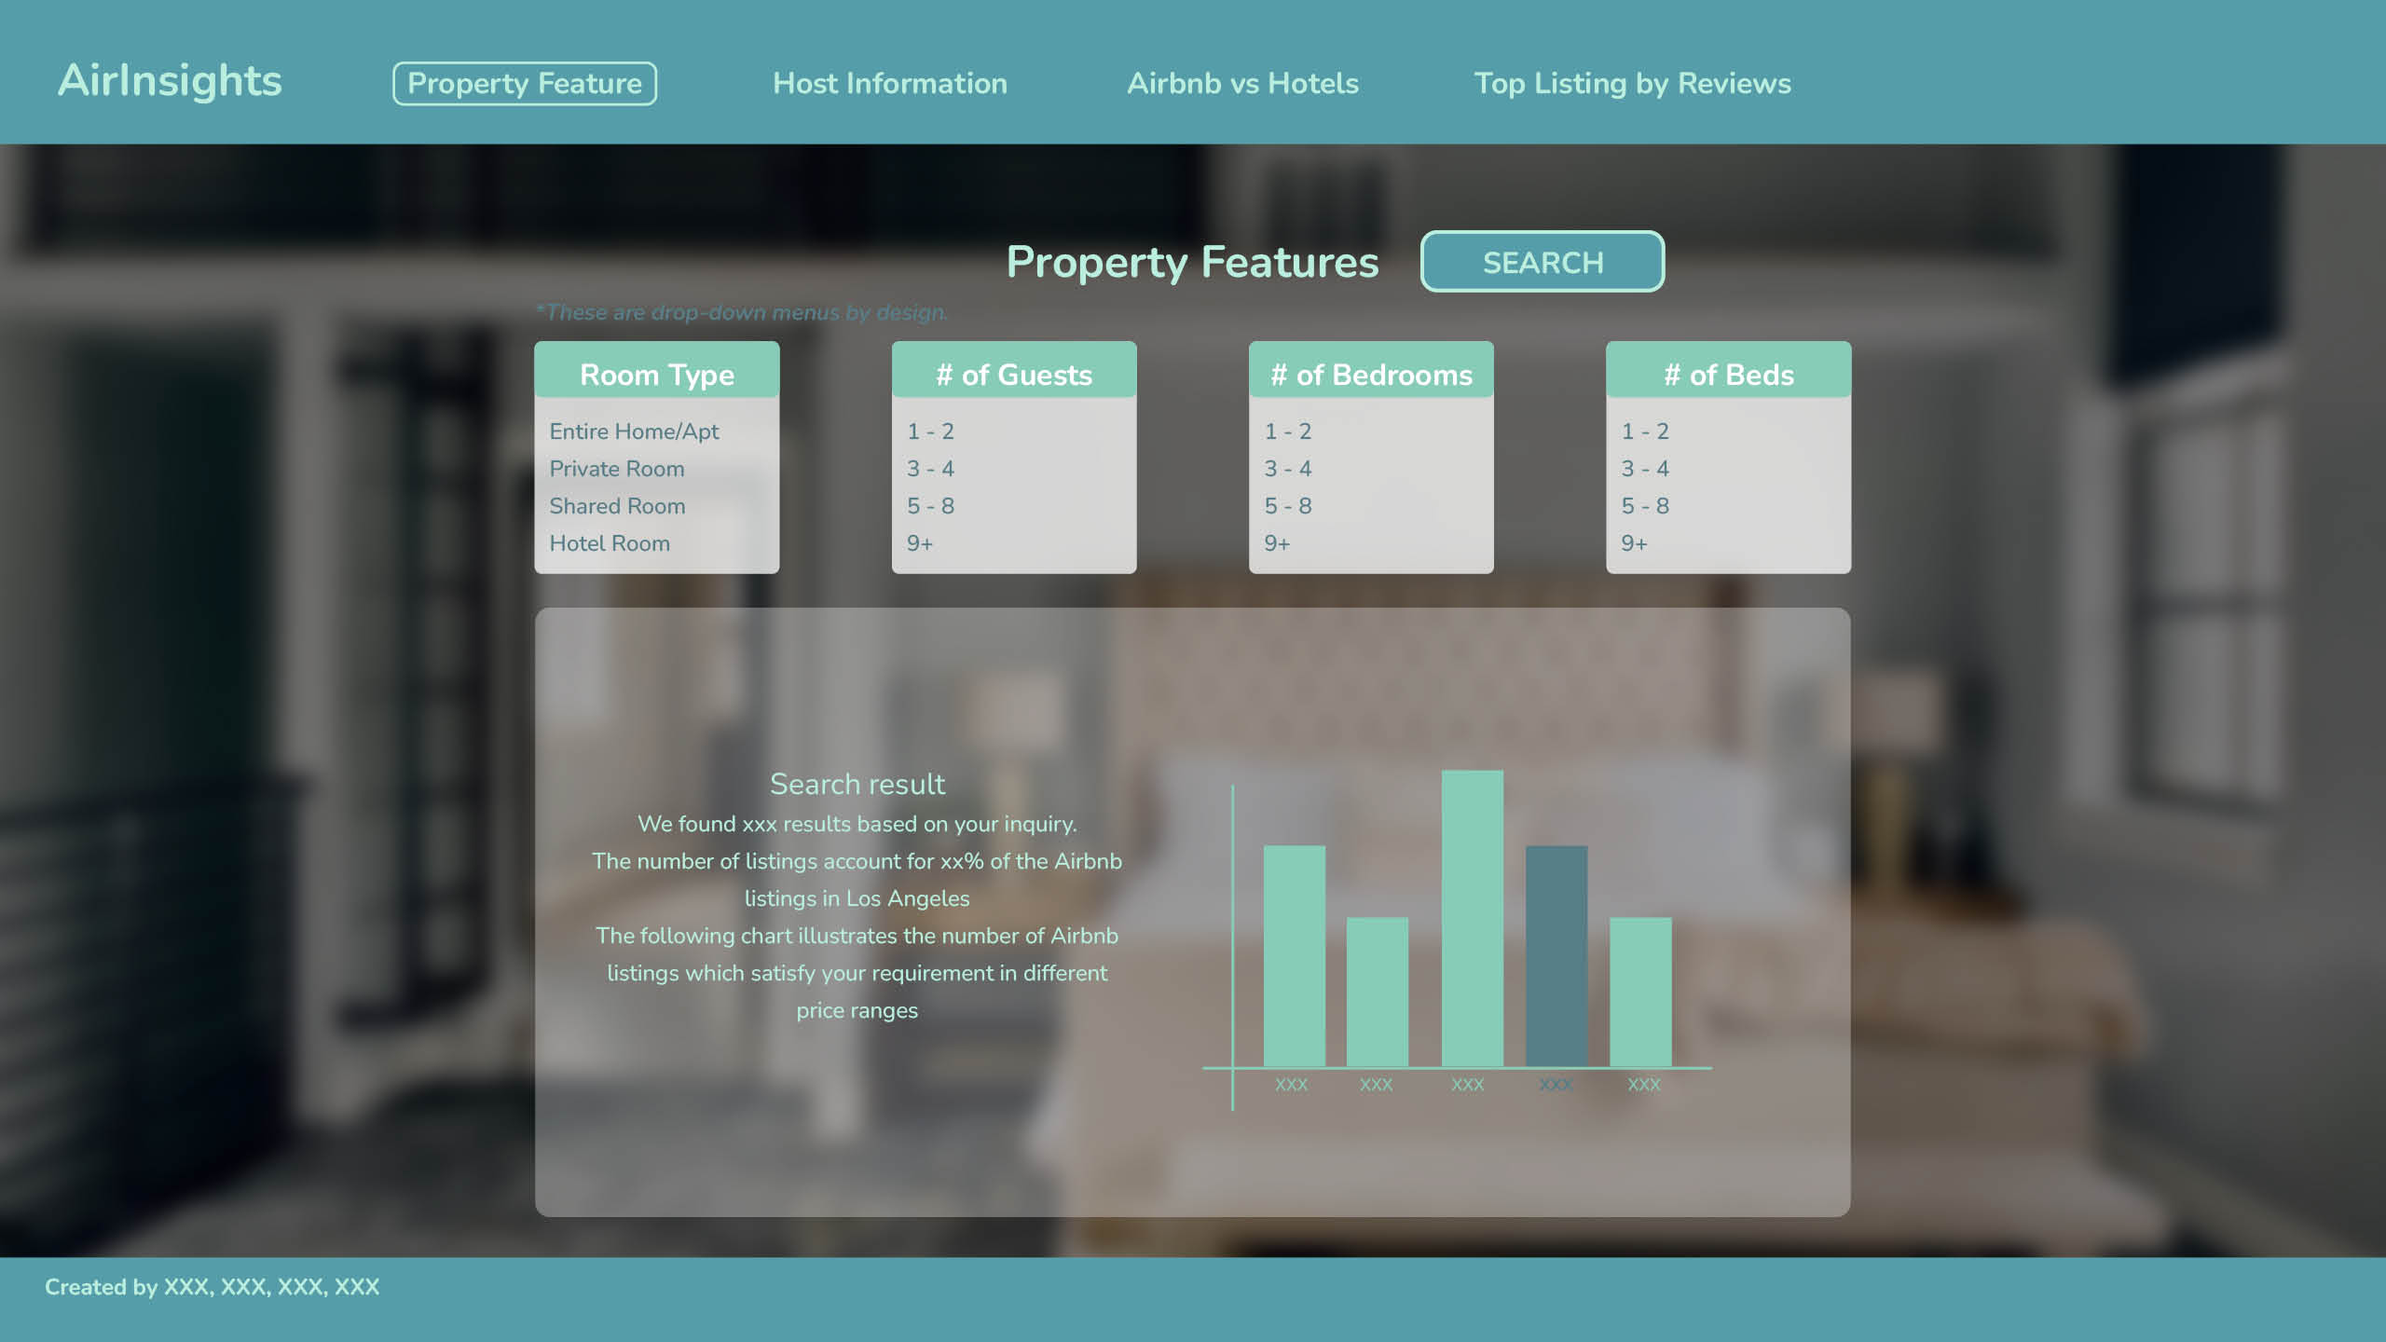
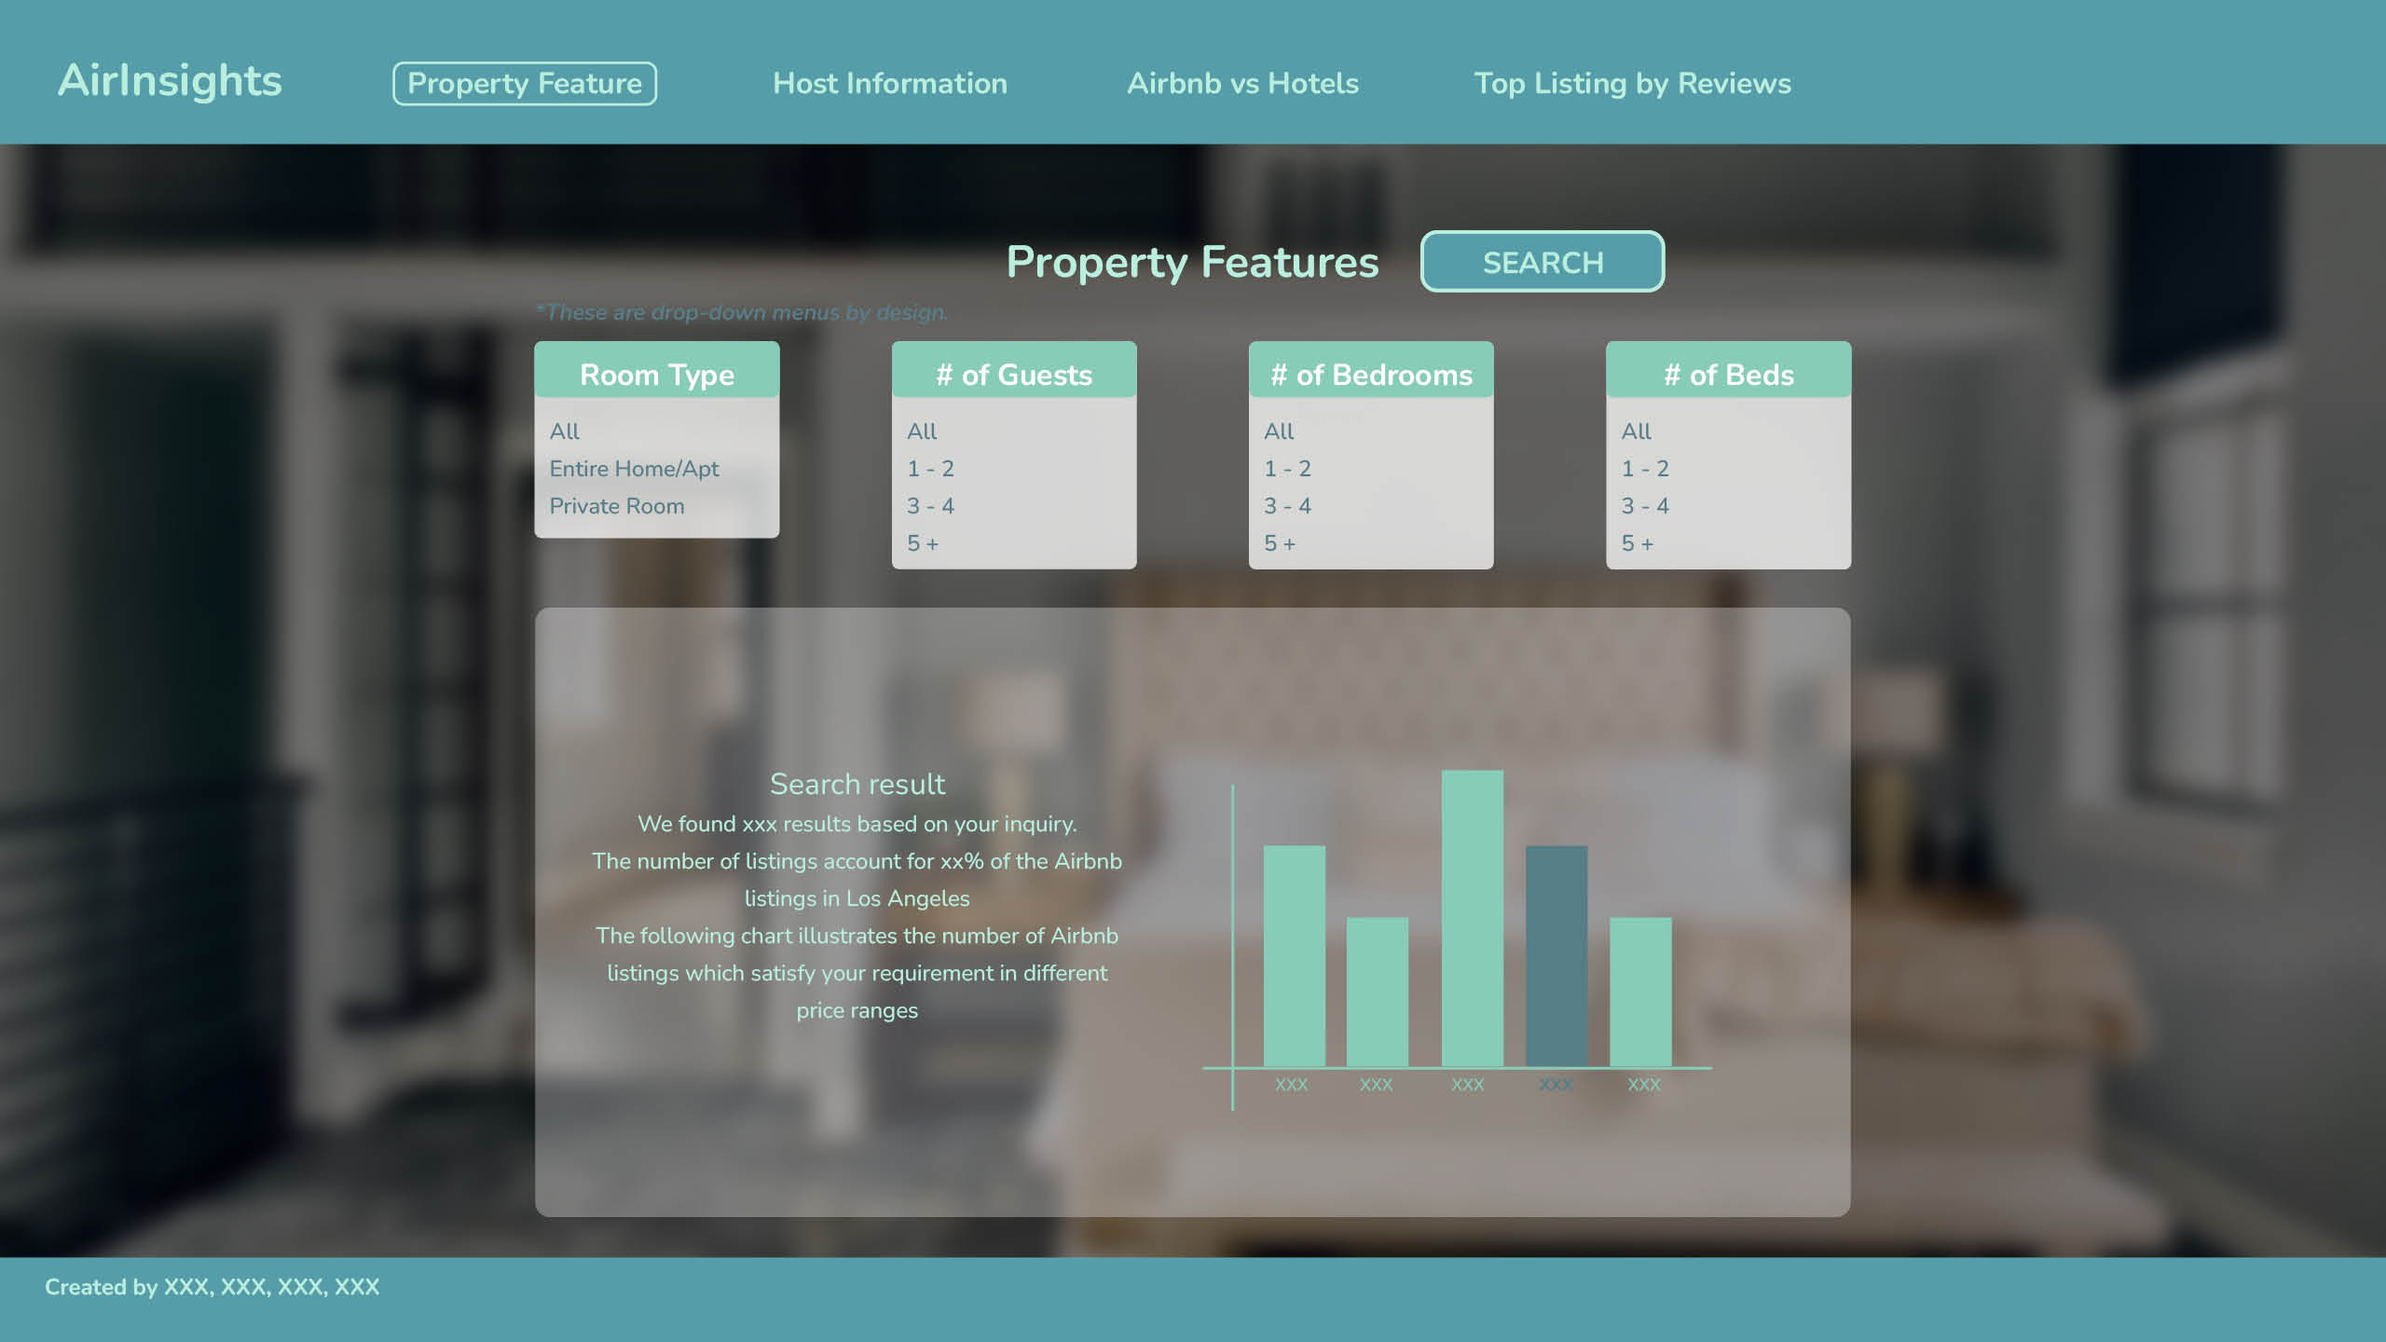
query optimization and demo revision

diff --git a/server/routes.js b/server/routes.js
@@ -13,57 +13,48 @@ connection.connect((err) => err && console.log(err));
 
 // maps mapping inputs to query conditions
 const roomTypeDict = {
-  "All": [0, 3],
+  "All": [0, 1],
   "Entire Home/Apt": [0, 0],
-  "Private Room": [1, 1],
-  "Hotel Roon": [2, 2],
-  "Shared Room": [3, 3]
+  "Private Room": [1, 1]
 }
 
 const accommodateRange = {
   "All": [0, 16],
   "1-2": [1, 2],
   "3-4": [3, 4],
-  "5-8": [5, 8],
-  "9+": [9, 16]
+  "5": [5, 16]
 }
 
 const bedroomsRange = {
   "All": [1, 25],
   "1-2": [1, 2],
   "3-4": [3, 4],
-  "5-8": [5, 8],
-  "9+": [9, 25]
+  "5": [5, 25]
 }
 
 const bedsRange = {
-  "All": [1, 50],
+  "All": [1, 25],
   "1-2": [1, 2],
   "3-4": [3, 4],
-  "5-8": [5, 8],
-  "9+": [9, 50]
+  "5": [5, 25]
 }
 
 const responseTimeRange = {
   "All": [0, Number.MAX_SAFE_INTEGER],
   "<1hr": [0, 1],
-  "<6hr": [0, 6],
-  "<24hr": [0, 24],
-  ">1D": [24, Number.MAX_SAFE_INTEGER]
+  "1hr": [1, Number.MAX_SAFE_INTEGER]
 }
 
 const responseRateRange = {
   "All": [0, 1],
-  "<0.5": [0, 0.5],
-  "0.5-0.8": [0.5, 0.8],
-  "0.8-1": [0.8, 1]
+  "<0.9": [0, 0.9],
+  "0.9": [0.9, 1]
 }
 
 const acceptanceRateRange = {
   "All": [0, 1],
-  "<0.5": [0, 0.5],
-  "0.5-0.8": [0.5, 0.8],
-  "0.8-1": [0.8, 1]
+  "<0.9": [0, 0.9],
+  "0.9": [0.9, 1]
 }
 
 const superhostRange = {
@@ -74,10 +65,8 @@ const superhostRange = {
 
 const totalListingRange = {
   "All": [1, Number.MAX_SAFE_INTEGER],
-  "1": [1, 1],
-  "2-5": [2, 5],
-  "6-10": [6, 10],
-  "11": [11, Number.MAX_SAFE_INTEGER]
+  "<5": [1, 5],
+  "5": [5, Number.MAX_SAFE_INTEGER]
 }
 
 const reviewTypeMap = {
@@ -105,26 +94,23 @@ const search_features = async function(req, res){
 
   connection.query(`
   SELECT
-      SUM(IF(b.price<50,1,0)) as 'UNDER 50',
-      SUM(IF(b.price BETWEEN 50 AND 99,1,0)) as '50-99',
-      SUM(IF(b.price BETWEEN 100 AND 149,1,0)) as '100-149',
-      SUM(IF(b.price BETWEEN 150 AND 199,1,0)) as '150-199',
-      SUM(IF(b.price BETWEEN 200 AND 249,1,0)) as '200-249',
-      SUM(IF(b.price BETWEEN 250 AND 299,1,0)) as '250-299',
-      SUM(IF(b.price BETWEEN 300 AND 349,1,0)) as '300-349',
-      SUM(IF(b.price BETWEEN 350 AND 399,1,0)) as '350-399',
-      SUM(IF(b.price>=400,1,0)) as 'OVER 400',
-      SUM(IF(b.price IS NULL, 1, 0)) as 'Not Filled In (NULL)'
-      FROM
-          (SELECT g.ind, g.room_type, g.accommodates, g.bedrooms, g.beds, g.general_price AS price
-           FROM General_listings g
-           WHERE g.ind NOT IN
-           (SELECT a.ind
-           FROM
-             (SELECT ind, AVG(price)
-              FROM LongTermRental
-              WHERE date< CURDATE()
-              GROUP BY ind) a)) b
+  SUM(IF(b.price<50,1,0)) as 'UNDER 50',
+  SUM(IF(b.price BETWEEN 50 AND 99,1,0)) as '50-99',
+  SUM(IF(b.price BETWEEN 100 AND 149,1,0)) as '100-149',
+  SUM(IF(b.price BETWEEN 150 AND 199,1,0)) as '150-199',
+  SUM(IF(b.price BETWEEN 200 AND 249,1,0)) as '200-249',
+  SUM(IF(b.price>=250,1,0)) as 'OVER 250',
+  SUM(IF(b.price IS NULL, 1, 0)) as 'Not Filled In (NULL)'
+  FROM
+      (SELECT g.ind, g.room_type, g.accommodates, g.bedrooms, g.beds, g.general_price AS price
+       FROM General_listings g
+       WHERE g.ind NOT IN
+       (SELECT a.ind
+       FROM
+         (SELECT l.ind, AVG(price)
+          FROM General_listings g JOIN LongTermRental l ON g.ind = l.ind
+          WHERE date< CURDATE()
+          GROUP BY l.ind) a)) b
       WHERE b.room_type>='${roomType[0]}' && b.room_type<='${roomType[1]}' && 
             b.accommodates >= '${accommodatesLow}' && b.accommodates <= '${accommodatesHigh}' &&
             b.bedrooms >='${bedroomsLow}' && b.bedrooms <= '${bedroomsHigh}' &&
@@ -154,15 +140,15 @@ const search_features_count = async function(req, res){
   connection.query(`
   SELECT COUNT(b.ind) AS COUNT
   FROM
-        (SELECT g.ind, g.room_type, g.accommodates, g.bedrooms, g.beds, g.general_price
-        FROM General_listings g
-        WHERE g.ind NOT IN
-        (SELECT a.ind
-        FROM
-          (SELECT ind, AVG(price)
-            FROM LongTermRental
-            WHERE date< CURDATE()
-            GROUP BY ind) a)) b
+      (SELECT g.ind, g.room_type, g.accommodates, g.bedrooms, g.beds
+       FROM General_listings g
+       WHERE g.ind NOT IN
+       (SELECT a.ind
+       FROM
+         (SELECT l.ind
+          FROM LongTermRental l
+          WHERE date< CURDATE()
+          ) a)) b
   WHERE b.room_type>='${roomType[0]}' && b.room_type<='${roomType[1]}' && 
         b.accommodates >= '${accommodatesLow}' && b.accommodates <= '${accommodatesHigh}' &&
         b.bedrooms >='${bedroomsLow}' && b.bedrooms <= '${bedroomsHigh}' &&
@@ -192,17 +178,17 @@ const search_features_percentage = async function(req, res){
 
   connection.query(`
   SELECT 1.0*
-       (SELECT COUNT(b.ind) 
+       (SELECT COUNT(b.ind)
         FROM
-      (SELECT g.ind, g.general_price, g.room_type, g.accommodates, g.bedrooms, g.beds
+      (SELECT g.ind, g.room_type, g.accommodates, g.bedrooms, g.beds
        FROM General_listings g
        WHERE g.ind NOT IN
        (SELECT a.ind
        FROM
-         (SELECT ind, AVG(price)
-          FROM LongTermRental
+         (SELECT l.ind
+          FROM LongTermRental l
           WHERE date< CURDATE()
-          GROUP BY ind) a)) b
+          ) a)) b
         WHERE b.room_type>='${roomType[0]}' && b.room_type<='${roomType[1]}' && 
               b.accommodates >= '${accommodatesLow}' && b.accommodates <= '${accommodatesHigh}' &&
               b.bedrooms >='${bedroomsLow}' && b.bedrooms <= '${bedroomsHigh}' &&
@@ -233,27 +219,24 @@ const search_host_info = async function(req, res){
 
   connection.query(`
   SELECT
-  SUM(IF(b.price<50,1,0)) as 'UNDER 50',
-  SUM(IF(b.price BETWEEN 50 AND 99,1,0)) as '50-99',
-  SUM(IF(b.price BETWEEN 100 AND 149,1,0)) as '100-149',
-  SUM(IF(b.price BETWEEN 150 AND 199,1,0)) as '150-199',
-  SUM(IF(b.price BETWEEN 200 AND 249,1,0)) as '200-249',
-  SUM(IF(b.price BETWEEN 250 AND 299,1,0)) as '250-299',
-  SUM(IF(b.price BETWEEN 300 AND 349,1,0)) as '300-349',
-  SUM(IF(b.price BETWEEN 350 AND 399,1,0)) as '350-399',
-  SUM(IF(b.price>=400,1,0)) as 'OVER 400',
-  SUM(IF(b.price IS NULL, 1, 0)) as 'Not Filled In (NULL)'
-  FROM
-      (SELECT g.ind, g.host_id, g.general_price AS price
-       FROM General_listings g
-       WHERE g.ind NOT IN
-       (SELECT a.ind
-       FROM
-         (SELECT ind, AVG(price)
-          FROM LongTermRental
-          WHERE date< CURDATE()
-          GROUP BY ind) a)) b
-      JOIN Host_information h ON h.host_id=b.host_id
+      SUM(IF(b.price<50,1,0)) as 'UNDER 50',
+      SUM(IF(b.price BETWEEN 50 AND 99,1,0)) as '50-99',
+      SUM(IF(b.price BETWEEN 100 AND 149,1,0)) as '100-149',
+      SUM(IF(b.price BETWEEN 150 AND 199,1,0)) as '150-199',
+      SUM(IF(b.price BETWEEN 200 AND 249,1,0)) as '200-249',
+      SUM(IF(b.price>=250,1,0)) as 'OVER 250',
+      SUM(IF(b.price IS NULL, 1, 0)) as 'Not Filled In (NULL)'
+      FROM
+          (SELECT g.ind, g.host_id, g.general_price AS price
+           FROM General_listings g
+           WHERE g.ind NOT IN
+           (SELECT a.ind
+           FROM
+             (SELECT l.ind, AVG(price)
+              FROM General_listings g JOIN LongTermRental l ON g.ind = l.ind
+              WHERE date< CURDATE()
+              GROUP BY l.ind) a)) b
+          JOIN Host_information h ON h.host_id=b.host_id
   WHERE h.host_response_time>='${responseTime[0]}' && h.host_response_time<='${responseTime[1]}' && 
         h.host_response_rate IS NOT NULL && h.host_response_rate>='${responseRate[0]}' && h.host_response_rate<='${responseRate[1]}' &&
         h.host_acceptance_rate IS NOT NULL && h.host_acceptance_rate>='${acceptanceRate[0]}' && h.host_acceptance_rate<='${acceptanceRate[1]}' && 
@@ -285,16 +268,16 @@ const search_host_info_count = async function(req, res){
   connection.query(`
   SELECT COUNT(b.ind) AS COUNT
   FROM
-          (SELECT g.ind, g.host_id
-           FROM General_listings g
-           WHERE g.ind NOT IN
-           (SELECT a.ind
-           FROM
-             (SELECT ind, AVG(price)
-              FROM LongTermRental
-              WHERE date< CURDATE()
-              GROUP BY ind) a)) b
-          JOIN Host_information h ON h.host_id=b.host_id
+            (SELECT g.ind, g.host_id
+             FROM General_listings g
+             WHERE g.ind NOT IN
+             (SELECT a.ind
+             FROM
+               (SELECT l.ind
+                FROM LongTermRental l
+                WHERE date< CURDATE()
+                ) a)) b
+            JOIN Host_information h ON h.host_id=b.host_id
   WHERE h.host_response_time>='${responseTime[0]}' && h.host_response_time<='${responseTime[1]}' && 
         h.host_response_rate IS NOT NULL && h.host_response_rate>='${responseRate[0]}' && h.host_response_rate<='${responseRate[1]}' &&
         h.host_acceptance_rate IS NOT NULL && h.host_acceptance_rate>='${acceptanceRate[0]}' && h.host_acceptance_rate<='${acceptanceRate[1]}' && 
@@ -324,18 +307,18 @@ const search_host_info_percentage = async function(req, res){
 
   connection.query(`
   SELECT 1.0*
-       (SELECT COUNT(b.ind)
-        FROM
-          (SELECT g.ind, g.host_id
-           FROM General_listings g
-           WHERE g.ind NOT IN
-           (SELECT a.ind
-           FROM
-             (SELECT ind, AVG(price)
-              FROM LongTermRental
-              WHERE date< CURDATE()
-              GROUP BY ind) a)) b
-          JOIN Host_information h ON h.host_id=b.host_id
+  (SELECT COUNT(b.ind)
+   FROM
+     (SELECT g.ind, g.host_id
+      FROM General_listings g
+      WHERE g.ind NOT IN
+      (SELECT a.ind
+      FROM
+        (SELECT l.ind
+         FROM LongTermRental l
+         WHERE date< CURDATE()
+         ) a)) b
+     JOIN Host_information h ON h.host_id=b.host_id
         WHERE h.host_response_time>='${responseTime[0]}' && h.host_response_time<='${responseTime[1]}' && 
               h.host_response_rate IS NOT NULL && h.host_response_rate>='${responseRate[0]}' && h.host_response_rate<='${responseRate[1]}' &&
               h.host_acceptance_rate IS NOT NULL && h.host_acceptance_rate>='${acceptanceRate[0]}' && h.host_acceptance_rate<='${acceptanceRate[1]}' && 

diff --git a/client/src/pages/HostInfoPage.js b/client/src/pages/HostInfoPage.js
@@ -88,9 +88,7 @@ export default function HostInfoPage() {
             select value={responseTime} sx={{width:200}} onChange={(e) => setResponseTime(e.target.value)}>
               <MenuItem value='All'>All</MenuItem>
               <MenuItem value='<1hr'>{'\u003C'} 1 Hour</MenuItem>
-              <MenuItem value='<6hr'>{'\u003C'} 6 Hours</MenuItem>
-              <MenuItem value='<24hr>'>{'\u003C'} 24 Hours</MenuItem>
-              <MenuItem value='>1D'>{'\u003E'} 1 Day</MenuItem>
+              <MenuItem value='1hr'>{'\u003E'} 1 Hour</MenuItem>
             </TextField>
           </Grid>
 
@@ -100,9 +98,8 @@ export default function HostInfoPage() {
             label='Select Response Rate'
             select value={responseRate} sx={{width:200}} onChange={(e) => setResponseRate(e.target.value)}>
               <MenuItem value='All'>All</MenuItem>
-              <MenuItem value='<0.5'>{'\u003C'} 0.5</MenuItem>
-              <MenuItem value='0.5-0.8'>0.5-0.8</MenuItem>
-              <MenuItem value='0.8-1'>0.8-1</MenuItem>
+              <MenuItem value='<0.9'>{'\u003C'} 0.9</MenuItem>
+              <MenuItem value='0.9'>{'\u003E'} 0.9</MenuItem>
             </TextField>
           </Grid>
 
@@ -112,9 +109,8 @@ export default function HostInfoPage() {
             label='Select Acceptance Rate'
             select value={acceptanceRate} sx={{width:200}} onChange={(e) => setAcceptanceRate(e.target.value)}>
               <MenuItem value='All'>All</MenuItem>
-              <MenuItem value='<0.5'>{'\u003C'} 0.5</MenuItem>
-              <MenuItem value='0.5-0.8'>0.5-0.8</MenuItem>
-              <MenuItem value='0.8-1'>0.8-1</MenuItem>
+              <MenuItem value='<0.9'>{'\u003C'} 0.9</MenuItem>
+              <MenuItem value='0.9'>{'\u003E'} 0.9</MenuItem>
             </TextField>
           </Grid>
 
@@ -135,10 +131,8 @@ export default function HostInfoPage() {
             label='Select Total Listing'
             select value={totalListing} sx={{width:200}} onChange={(e) => setTotalListing(e.target.value)}>
               <MenuItem value='All'>All</MenuItem>
-              <MenuItem value='1'>Only 1</MenuItem>
-              <MenuItem value='2-5'>2-5</MenuItem>
-              <MenuItem value='6-10'>6-10</MenuItem>
-              <MenuItem value='11'>11+</MenuItem>
+              <MenuItem value='<5'>{'\u003C'} 5</MenuItem>
+              <MenuItem value='5'>{'\u003E'} 5</MenuItem>
             </TextField>
           </Grid>
 

diff --git a/client/src/pages/PropertyFeaturesPage.js b/client/src/pages/PropertyFeaturesPage.js
@@ -85,8 +85,6 @@ export default function PropertyFeaturesPage() {
               <MenuItem value='All'>All</MenuItem>
               <MenuItem value='Entire Home/Apt'>Entire Home/Apt</MenuItem>
               <MenuItem value='Private Room'>Private Room</MenuItem>
-              <MenuItem value='Hotel Room'>Hotel Room</MenuItem>
-              <MenuItem value='Shared Room'>Shared Room</MenuItem>
             </TextField>
           </Grid>
 
@@ -98,8 +96,7 @@ export default function PropertyFeaturesPage() {
             <MenuItem value='All'>All</MenuItem>
               <MenuItem value='1-2'>1-2</MenuItem>
               <MenuItem value='3-4'>3-4</MenuItem>
-              <MenuItem value='5-8'>5-8</MenuItem>
-              <MenuItem value='9-16'>9+</MenuItem>
+              <MenuItem value='5'>5+</MenuItem>
             </TextField>
           </Grid>
 
@@ -111,8 +108,7 @@ export default function PropertyFeaturesPage() {
             <MenuItem value='All'>All</MenuItem>
               <MenuItem value='1-2'>1-2</MenuItem>
               <MenuItem value='3-4'>3-4</MenuItem>
-              <MenuItem value='5-8'>5-8</MenuItem>
-              <MenuItem value='9-16'>9+</MenuItem>
+              <MenuItem value='5'>5+</MenuItem>
             </TextField>
           </Grid>
 
@@ -124,8 +120,7 @@ export default function PropertyFeaturesPage() {
             <MenuItem value='All'>All</MenuItem>
               <MenuItem value='1-2'>1-2</MenuItem>
               <MenuItem value='3-4'>3-4</MenuItem>
-              <MenuItem value='5-8'>5-8</MenuItem>
-              <MenuItem value='9-16'>9+</MenuItem>
+              <MenuItem value='5'>5+</MenuItem>
             </TextField>
           </Grid>
 

diff --git a/client/src/pages/TopListingPage.js b/client/src/pages/TopListingPage.js
@@ -57,7 +57,7 @@ export default function TopListing() {
           label='Select Review Type'
           select value={reviewType} sx={{width:200}} onChange={(e) => setReviewType(e.target.value)}>
             <MenuItem value='RATING'>Rating</MenuItem>
-            <MenuItem value='ACCURACY'>Rating</MenuItem>
+            <MenuItem value='ACCURACY'>Accuracy</MenuItem>
             <MenuItem value='CLEANLINESS'>Cleanliness</MenuItem>
             <MenuItem value='CHECKIN'>Check-in</MenuItem>
             <MenuItem value='COMMUNICATION'>Communication</MenuItem>
